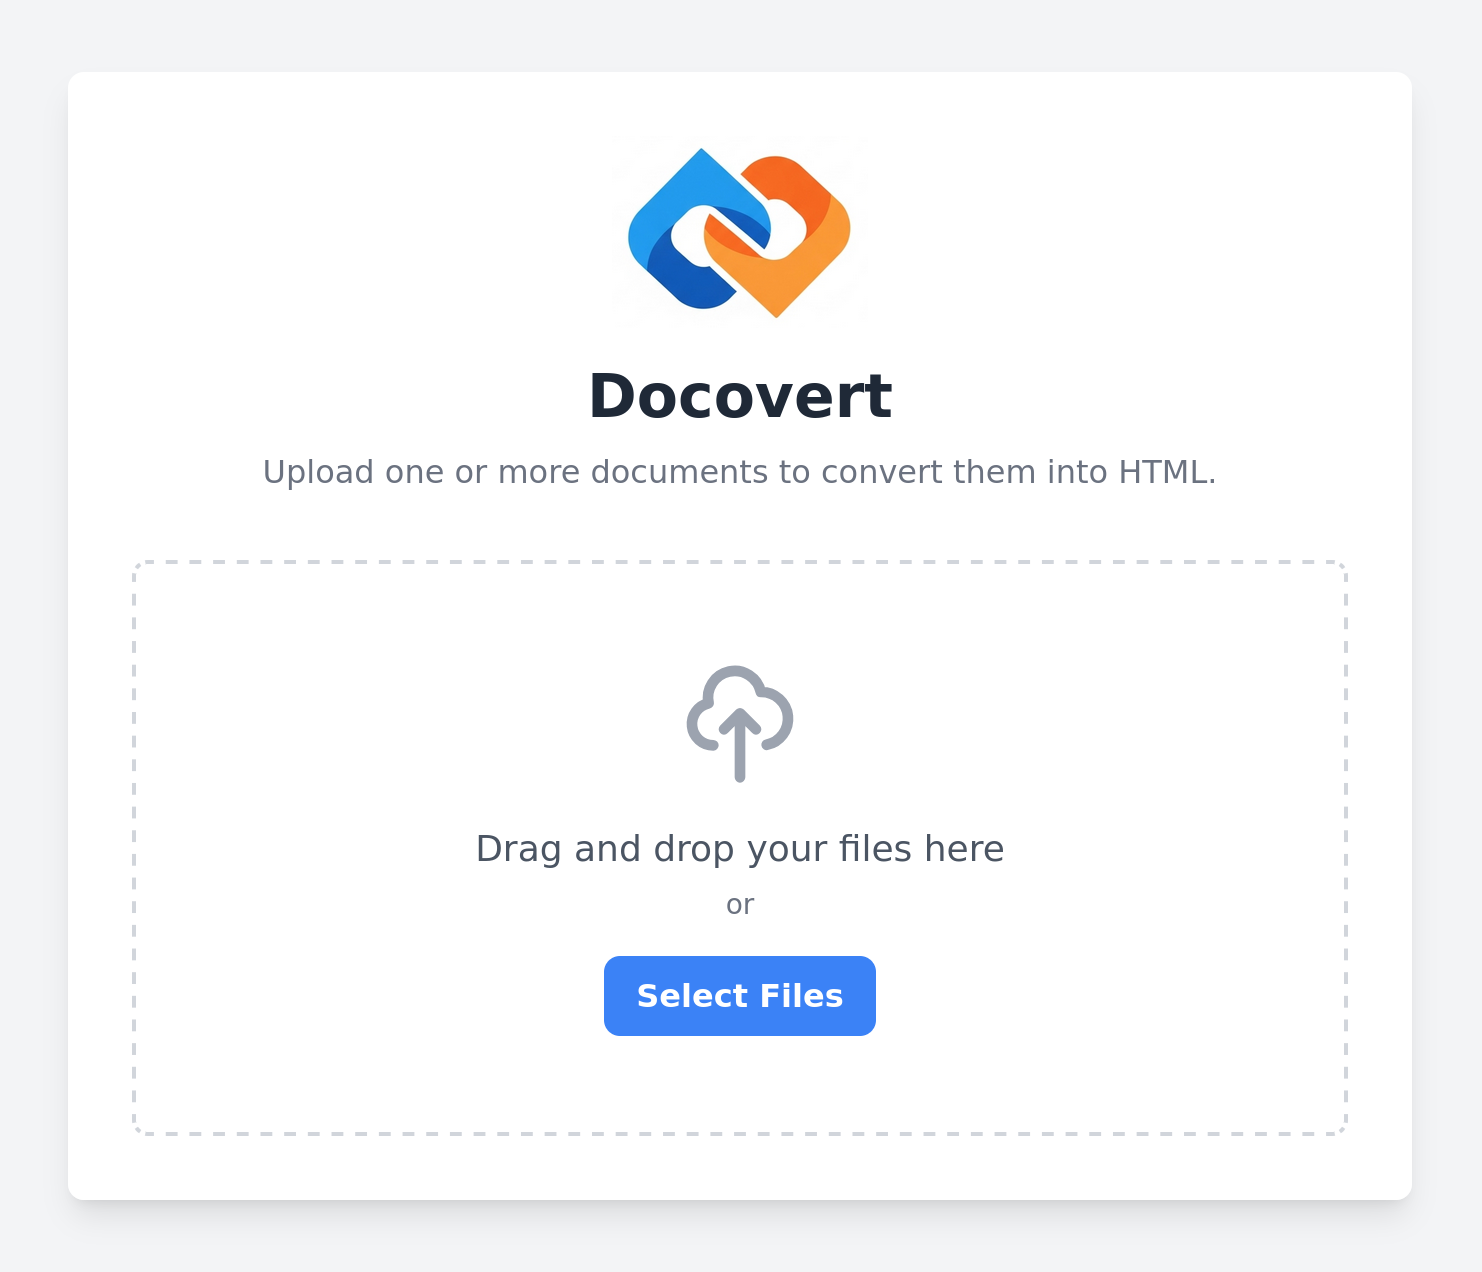
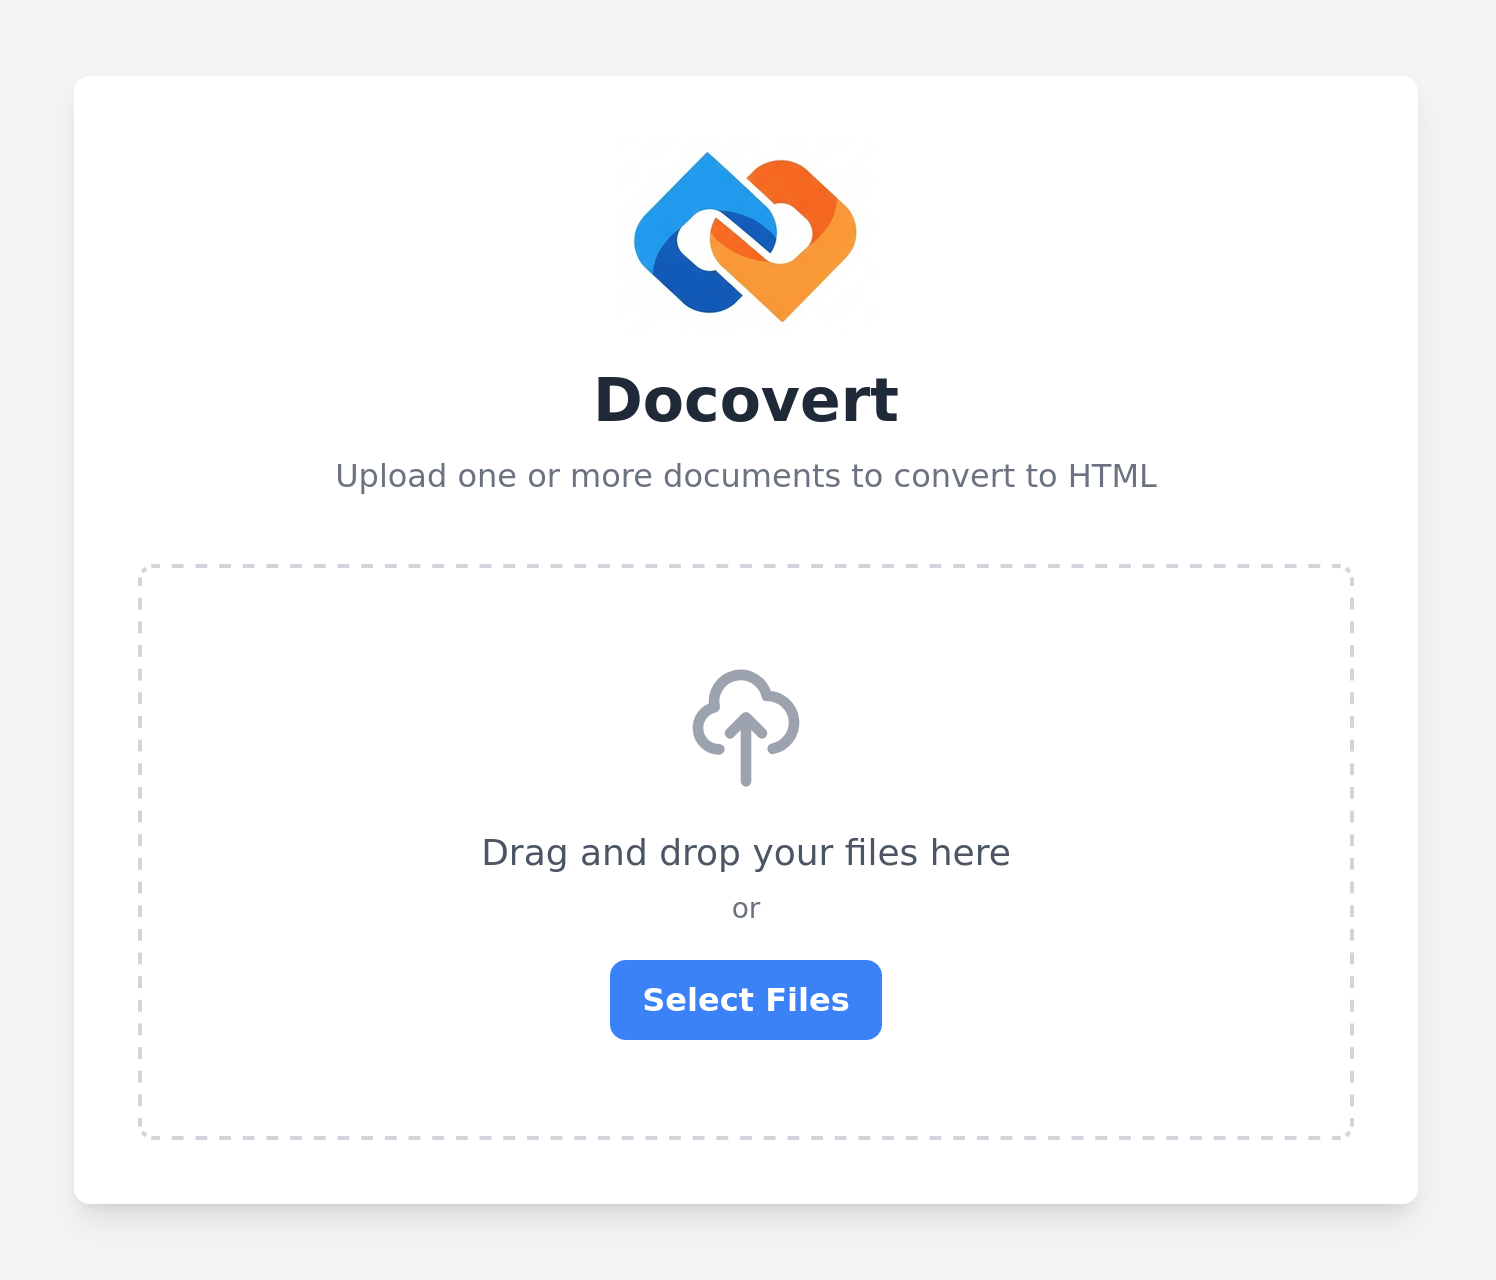
work

diff --git a/flaskr/templates/index.html b/flaskr/templates/index.html
@@ -18,7 +18,7 @@
         />
         <h1 class="text-3xl font-bold text-gray-800">Docovert</h1>
         <p class="text-gray-500 mt-2">
-          Upload one or more documents to convert them into HTML.
+          Upload one or more documents to convert to HTML
         </p>
       </div>
 

diff --git a/flaskr/convert.py b/flaskr/convert.py
@@ -6,10 +6,10 @@ from flask import Blueprint, jsonify, request, send_file
 from pathvalidate import sanitize_filename
 import pypandoc
 
-bp = Blueprint("convert", __name__, url_prefix="/convert")
+bp = Blueprint("convert", __name__)
 
 
-@bp.route("", methods=["POST"])
+@bp.route("/convert", methods=["POST"])
 def convert_files():
     """Handles file uploads, conversion, and response.
 

diff --git a/README.md b/README.md
@@ -8,14 +8,14 @@
   <img src="https://img.shields.io/badge/google%20gemini-8E75B2?style=for-the-badge&logo=google%20gemini&logoColor=white" alt="gemini">
   <img src="https://img.shields.io/badge/python-3670A0?style=for-the-badge&logo=python&logoColor=ffdd54" alt="python">
   <img src="https://img.shields.io/badge/flask-%23000.svg?style=for-the-badge&logo=flask&logoColor=white" alt="flask">
-  <img src="https://img.shields.io/badge/bootstrap-%238511FA.svg?style=for-the-badge&logo=bootstrap&logoColor=white" alt="bootstrap">
+  <img src="https://img.shields.io/badge/Tailwind%20CSS-%2338B2AC.svg?style=for-the-badge&logo=tailwind-css&logoColor=white" alt="tailwindcss">
   <img src="https://img.shields.io/badge/NPM-%23CB3837.svg?style=for-the-badge&logo=npm&logoColor=white" alt="npm">
 </p>
 
 A simple web application to convert one or more files into self-contained HTML files, with all images embedded directly into the document. The resulting files are bundled into a single .zip archive for easy download.
 
 > [!WARNING]  
-> This project is 100% vide-coded and not suitable for production.
+> This project is mostly vibe-coded and not suitable for production.
 
 ![screenshot 1](demo.png)
 
@@ -97,6 +97,10 @@ Ensure the following tools are installed:
 - Pandoc
 - make
 - node
+
+Optional:
+
+- Docker
 
 ## Setup and Installation
 
